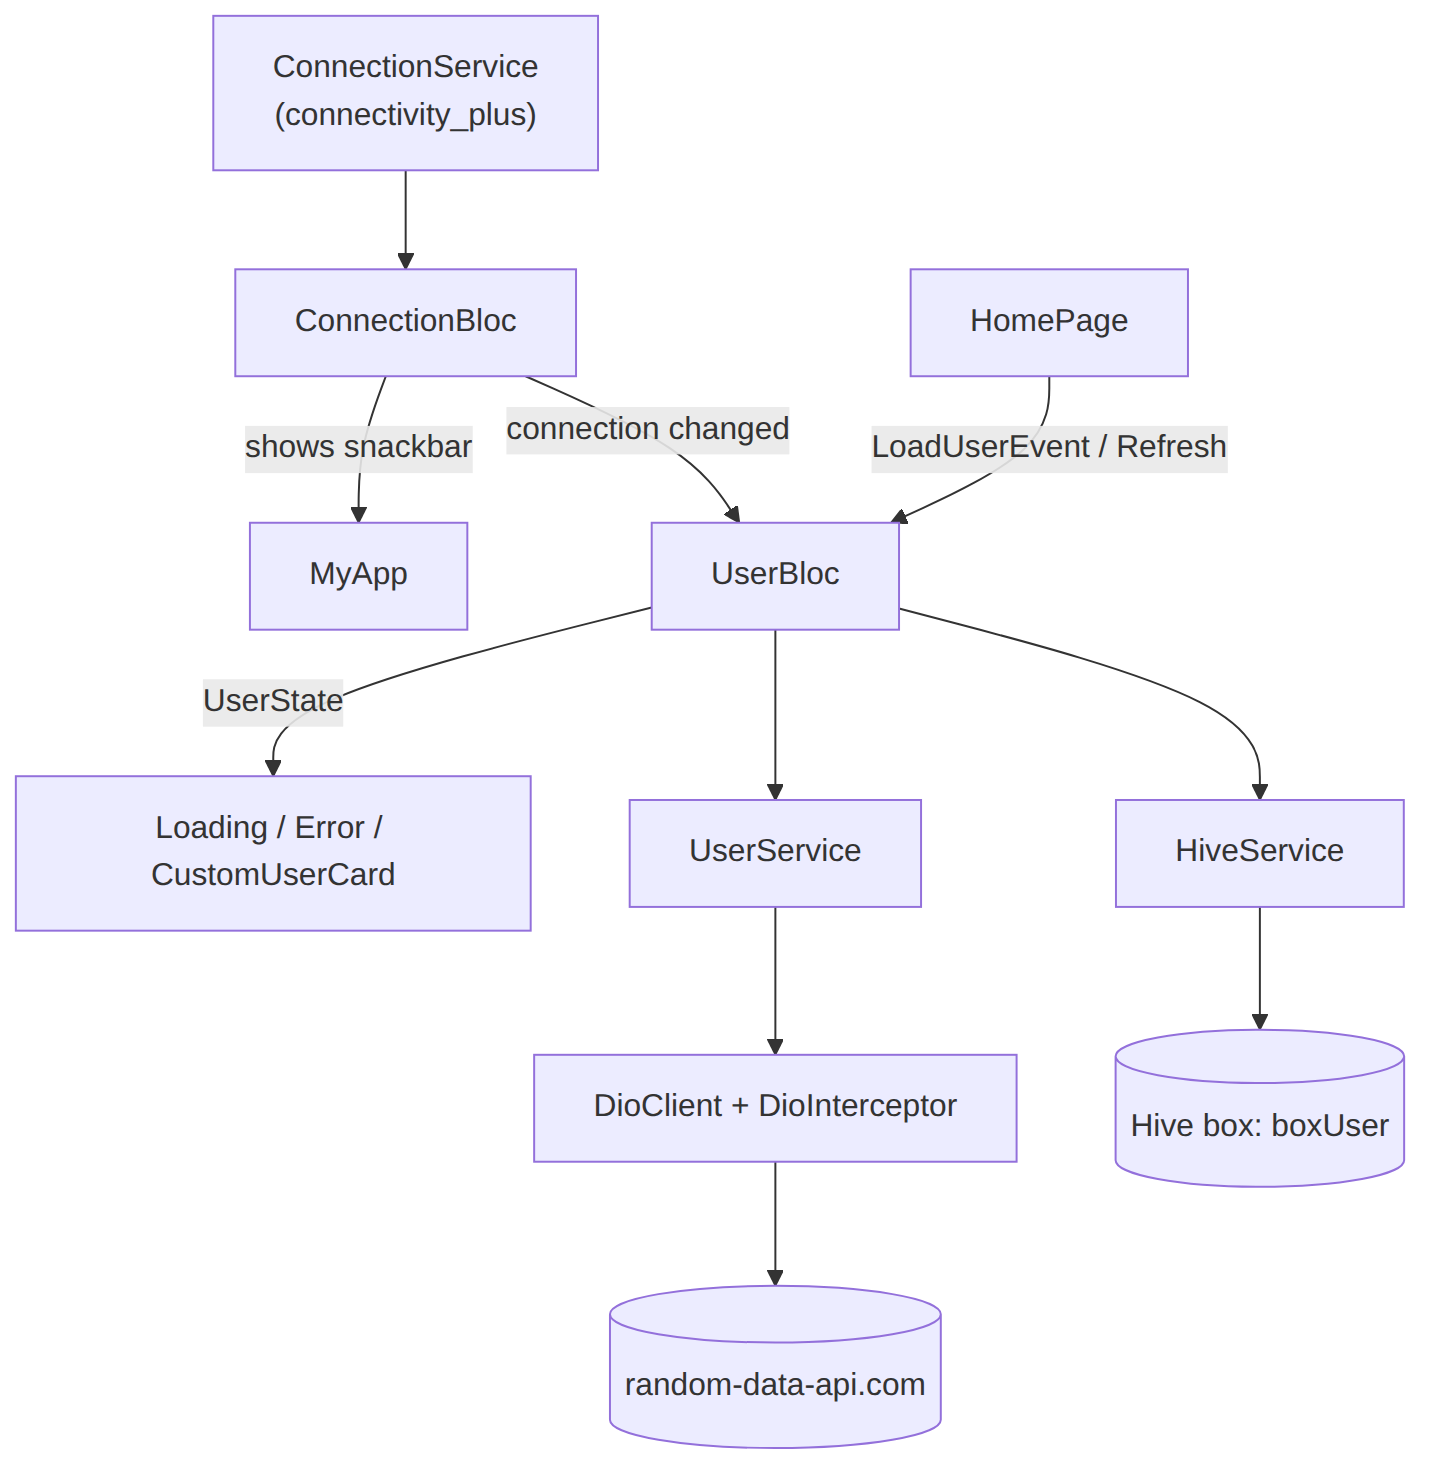
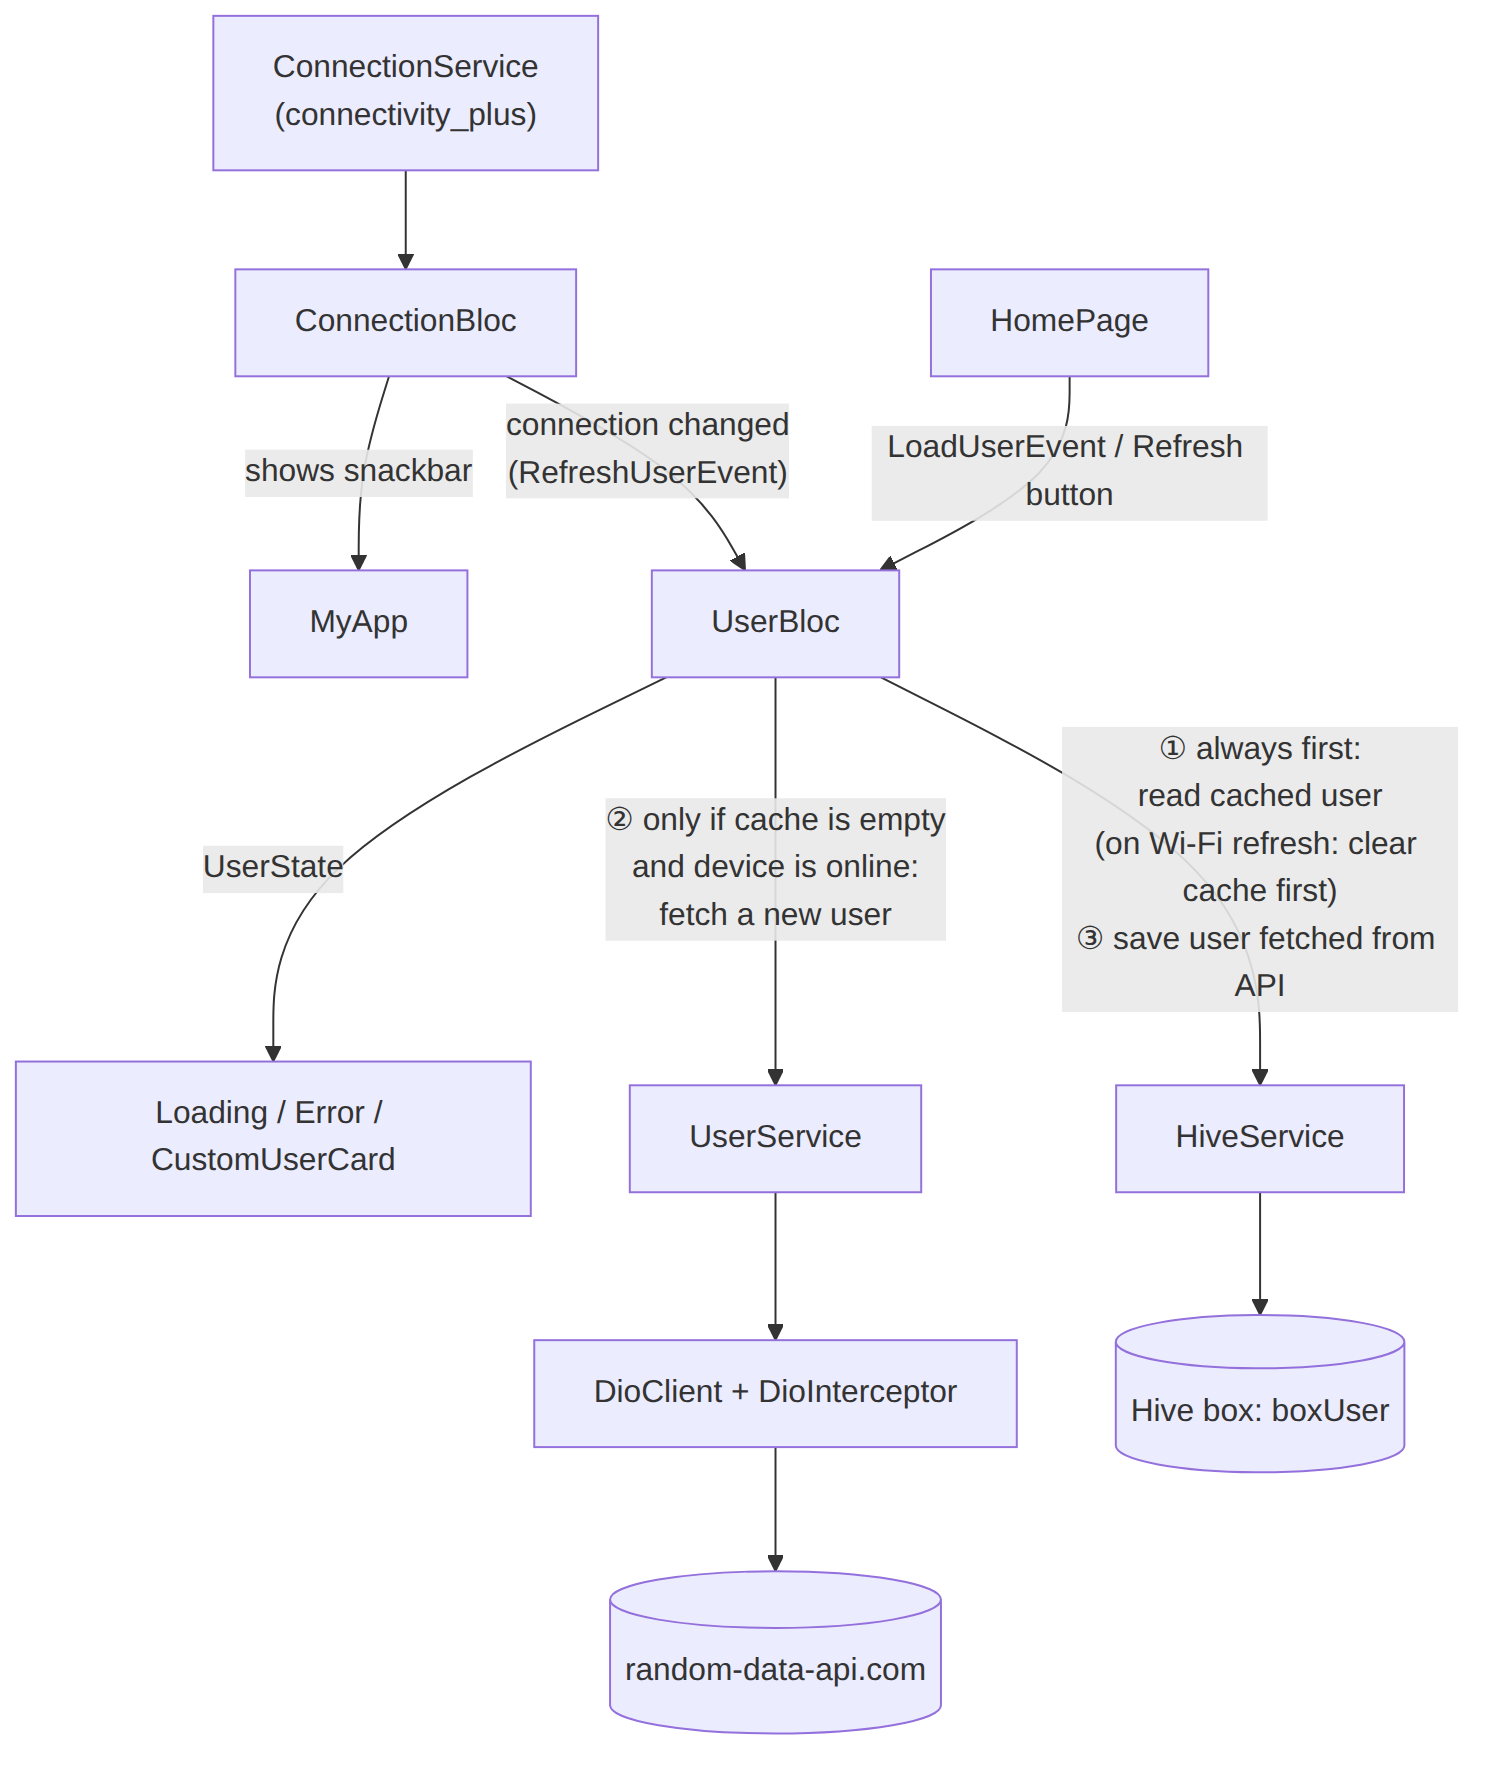
Explain when UserBloc uses HiveService vs UserService
Label both arrows in the architecture diagram with the order and the
condition for each call, and add a numbered explanation under it.

Claude-Session: https://claude.ai/code/session_01SrZrGpo8TpmkgMf8fATm6x

diff --git a/README.md b/README.md
@@ -138,6 +138,18 @@ abstract classes make them easy to replace with mocks in tests.
 
 <img src="doc/architecture/architecture.png" alt="Architecture diagram" width="700"/>
 
+**How UserBloc uses its two services.** The numbers match the diagram:
+
+1. **HiveService is always used first.** UserBloc reads the cached user. On a Wi-Fi refresh it
+   clears the cache before reading, so the cache is always empty there. If a user is found, it is
+   shown and **UserService is not called at all**.
+2. **UserService is used only if the cache is empty *and* the device is online.** It fetches a new
+   user from the API. If the cache is empty and the device is offline, UserBloc emits
+   "No Internet" instead.
+3. **HiveService again** saves the user from the API, so it is available offline next time.
+
+The step-by-step flows are in [How data flows](#how-data-flows).
+
 The diagram source is [`doc/architecture/architecture.mmd`](doc/architecture/architecture.mmd).
 After editing it, regenerate the image with:
 
